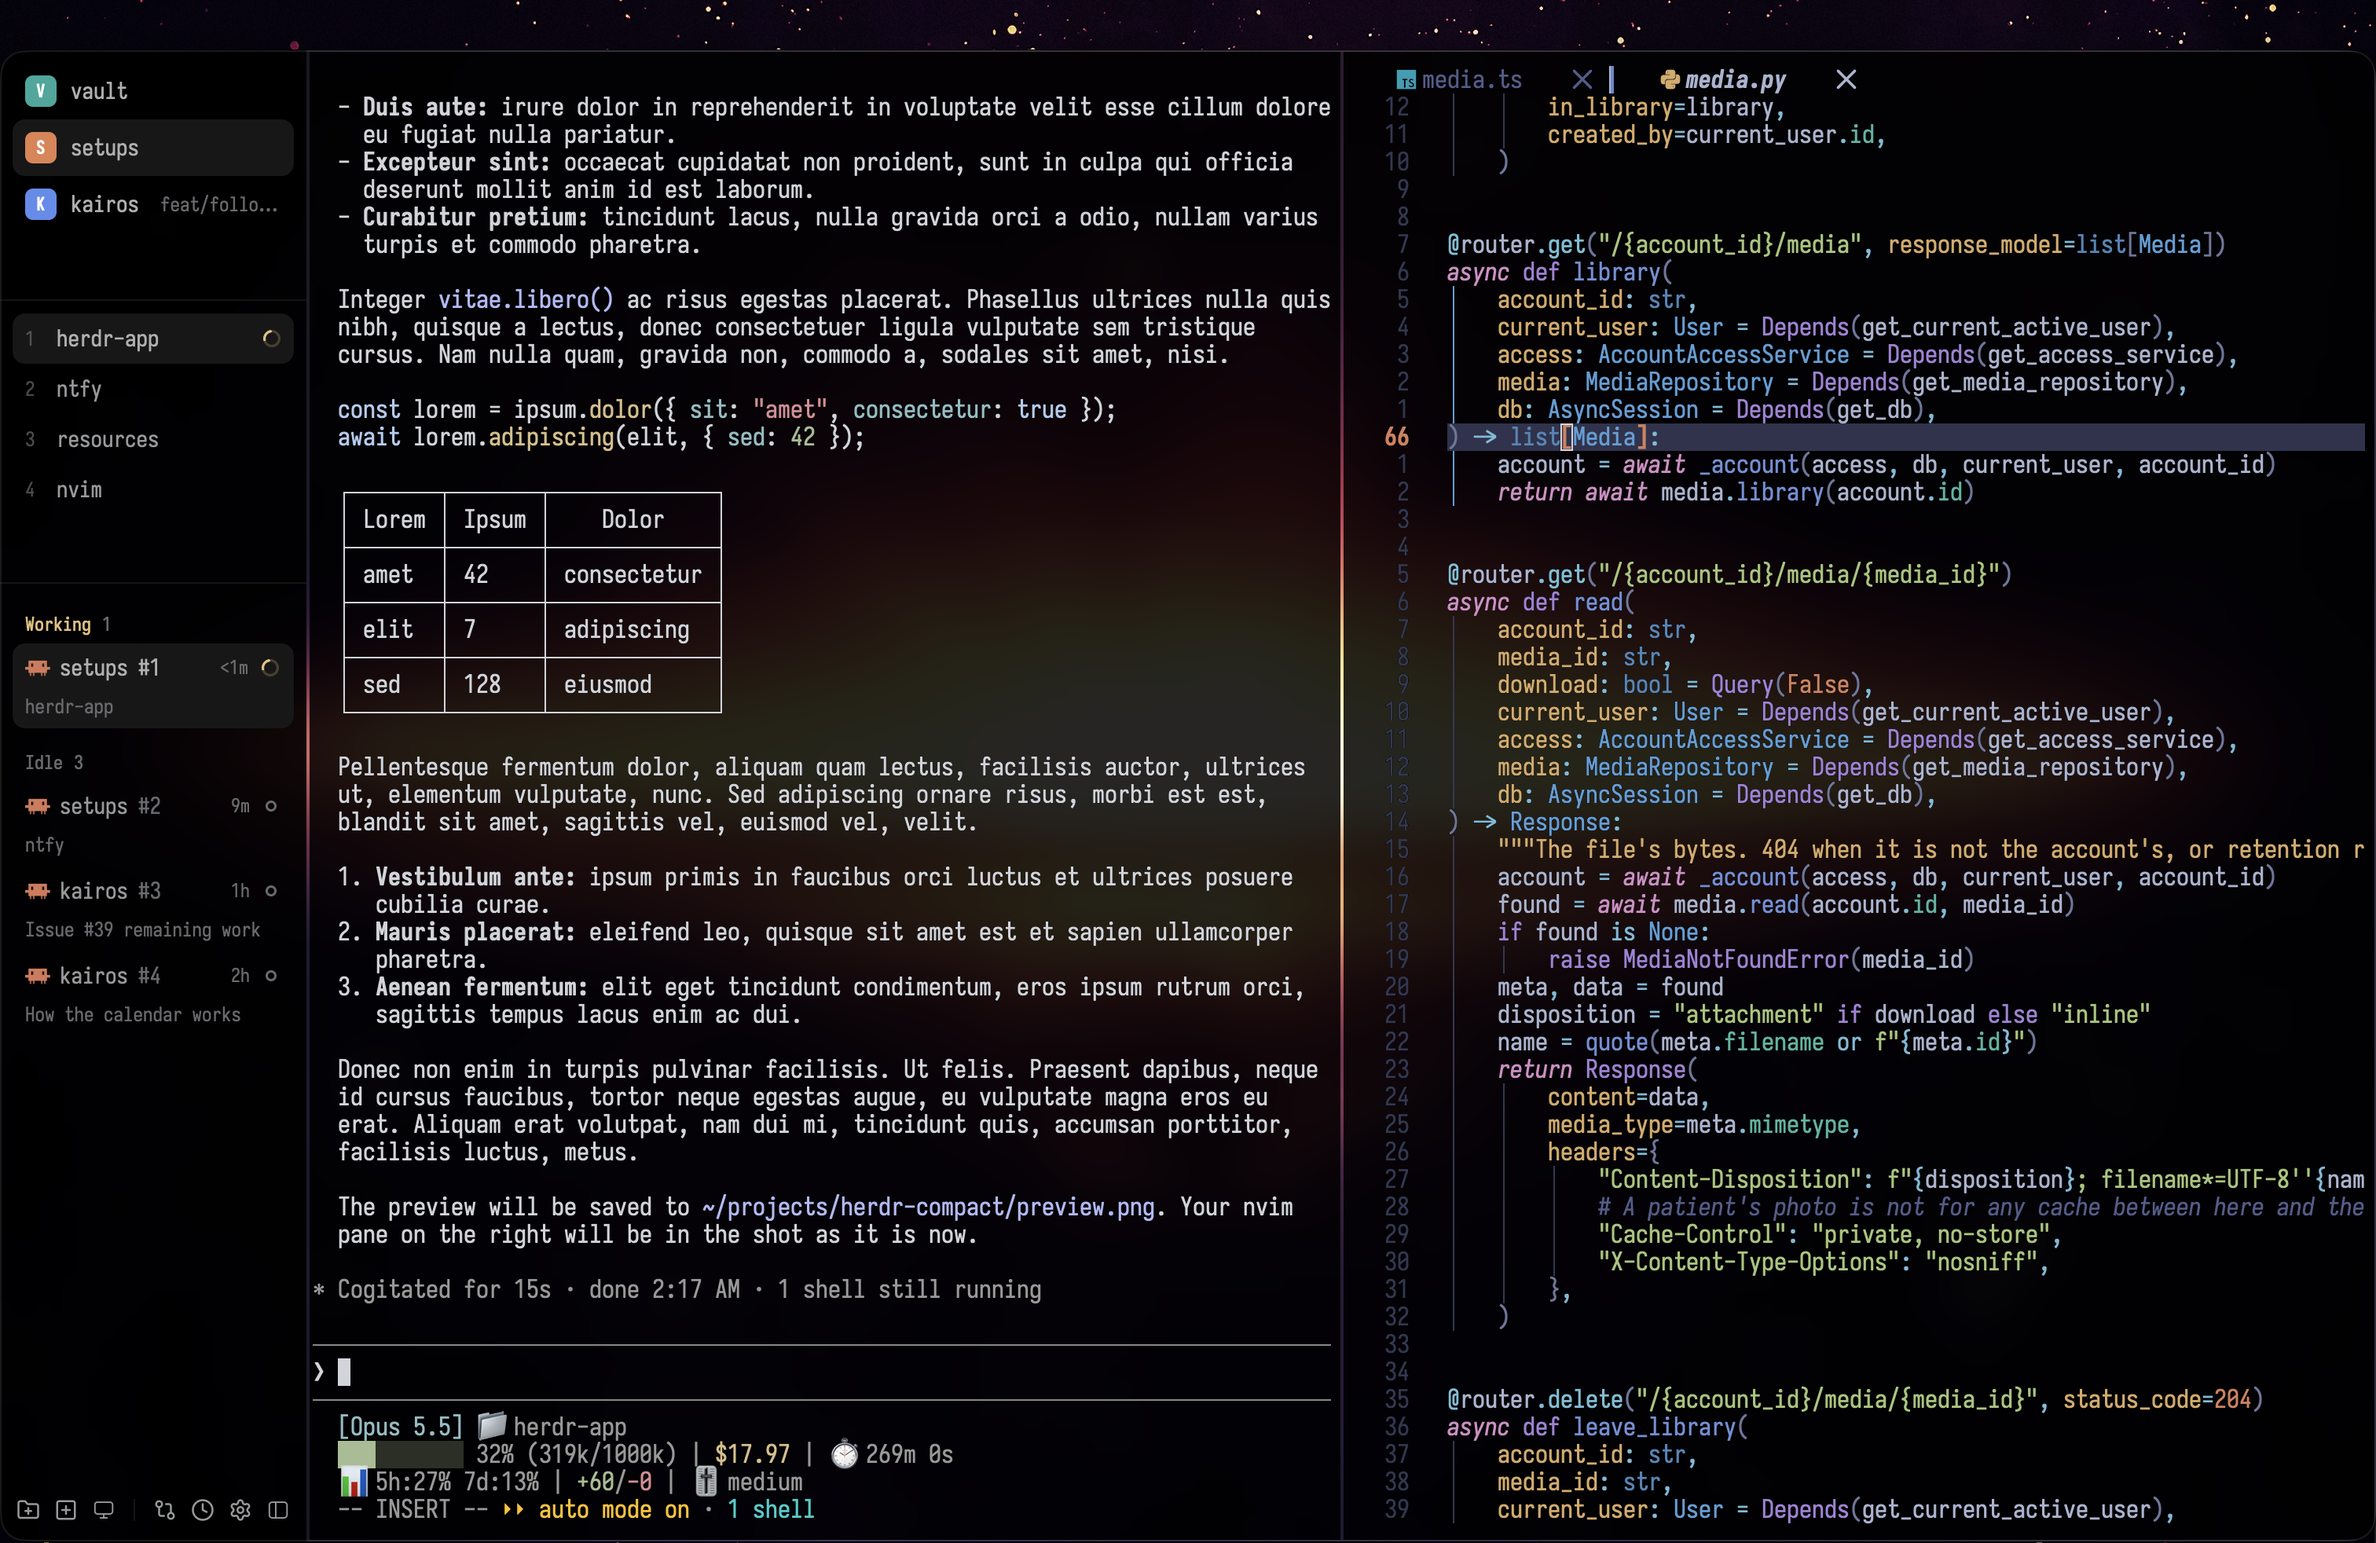
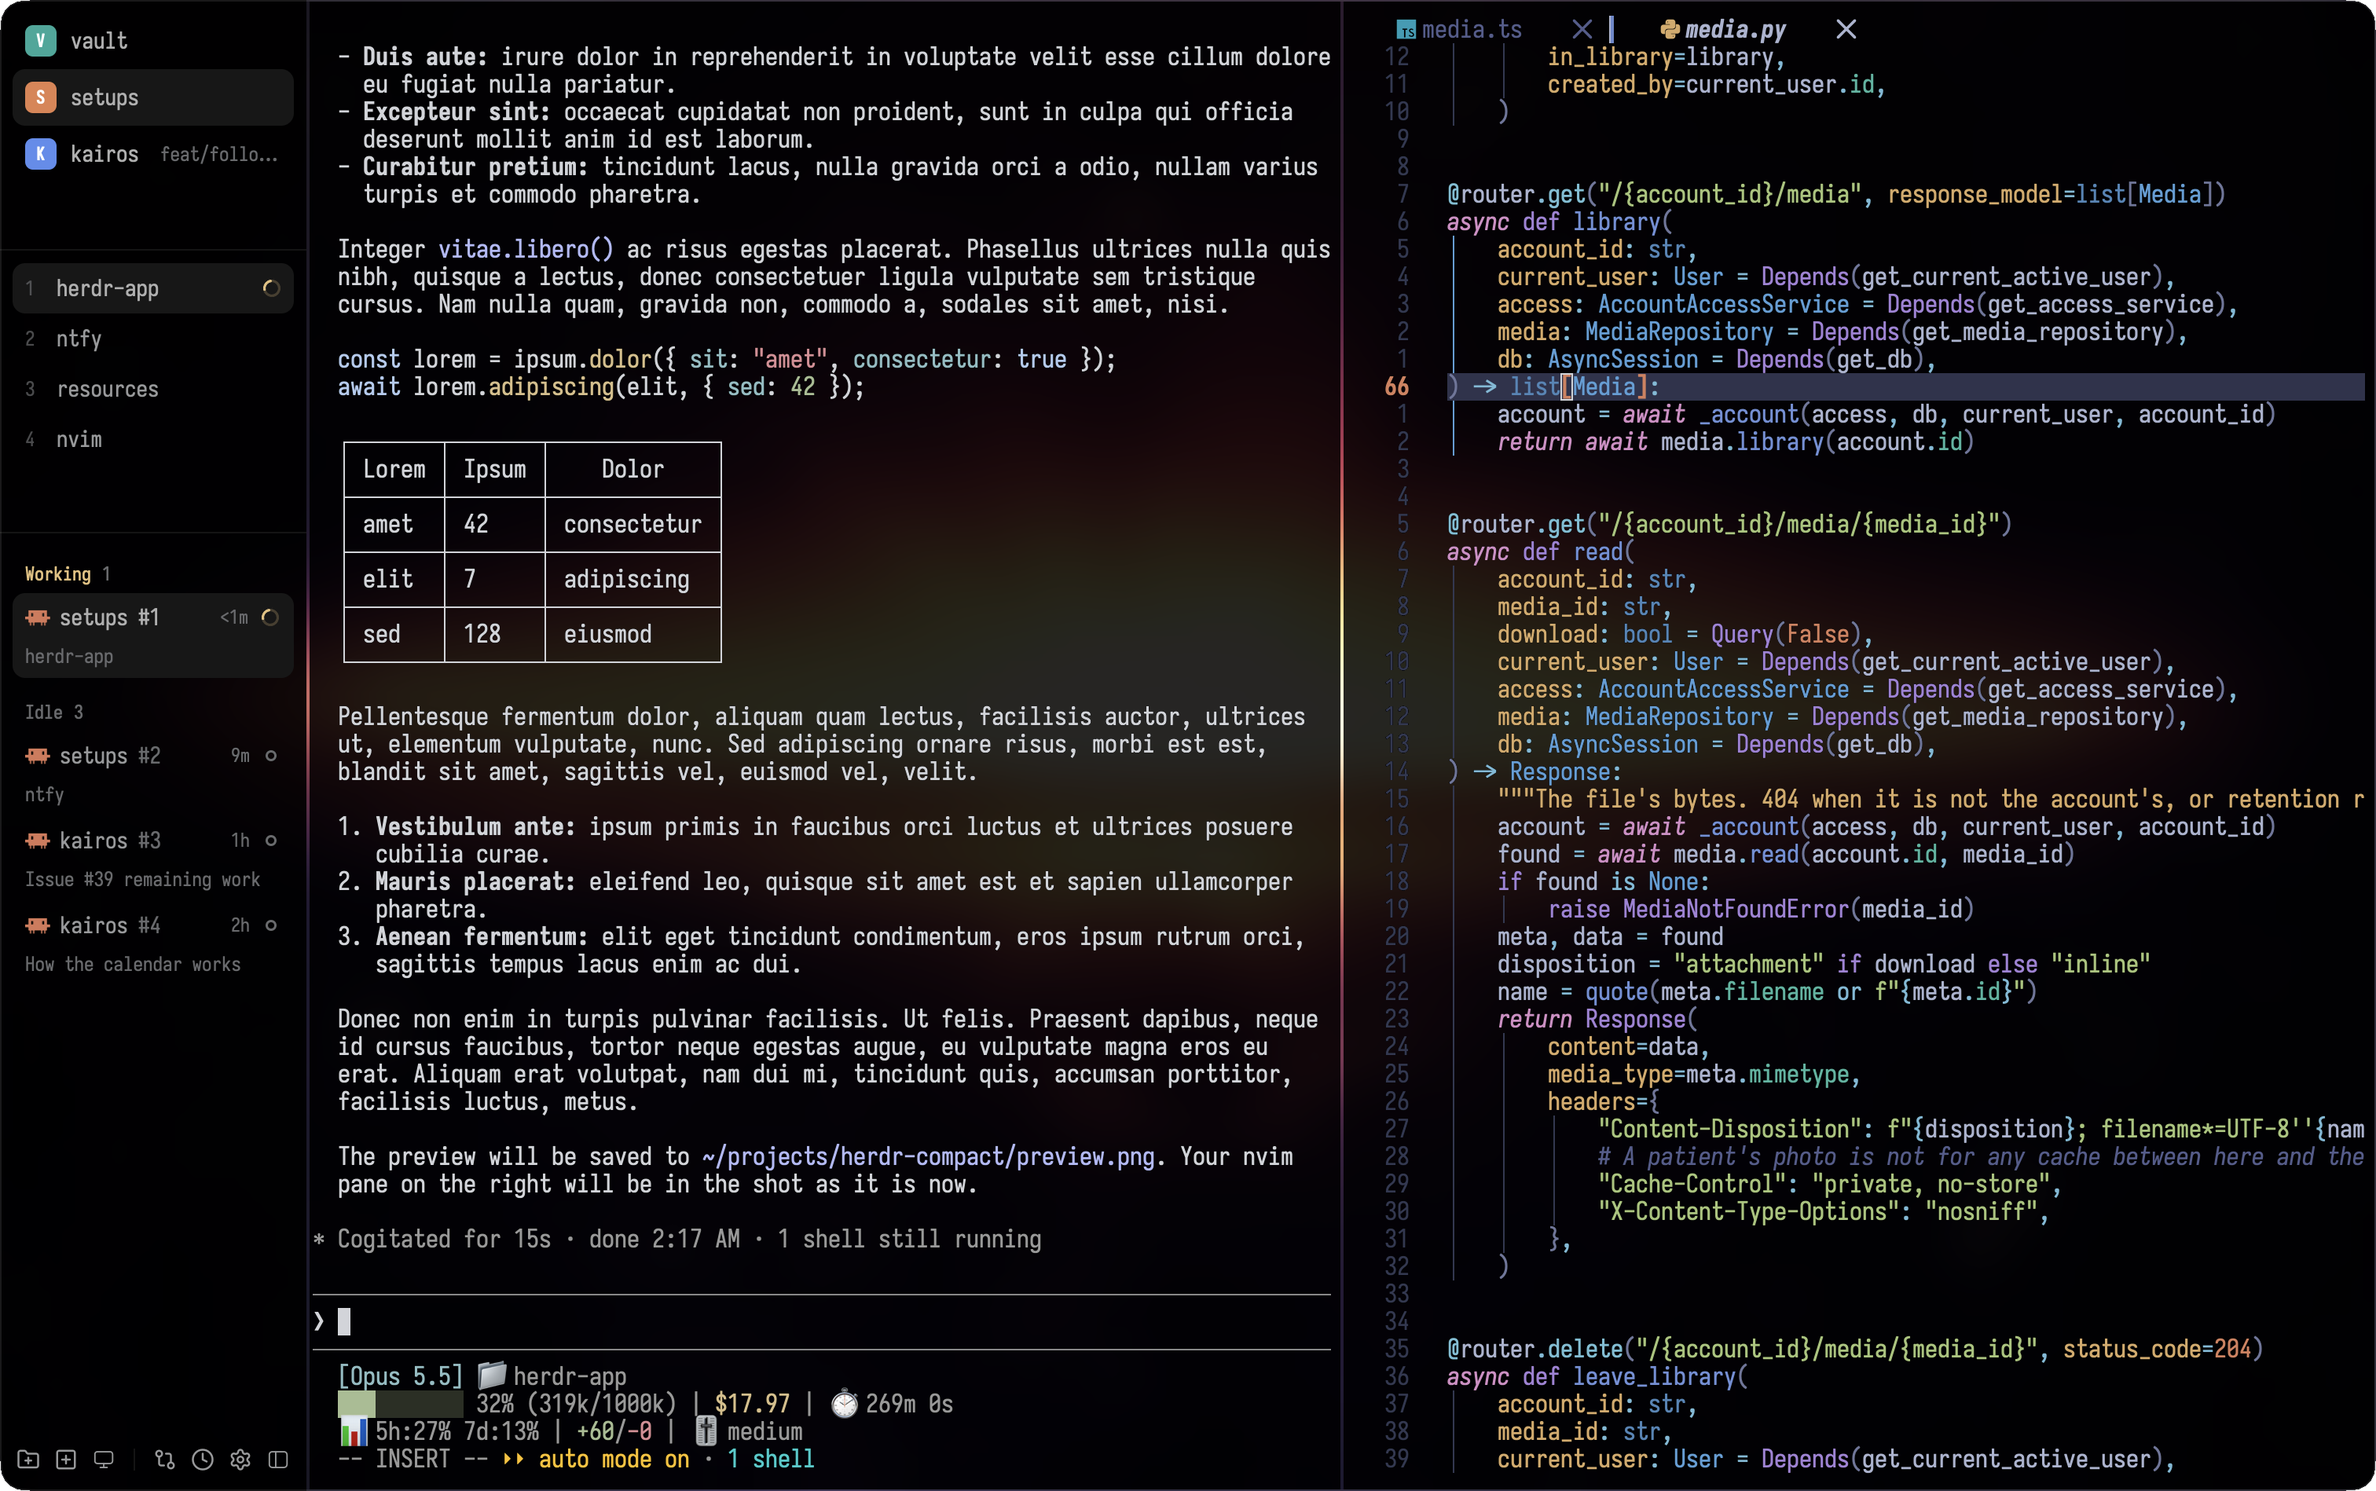
Add all-black preview and round both previews to the window shape

diff --git a/README.md b/README.md
@@ -2,7 +2,9 @@
 
 A compact, see-through layout for [Herdr](https://herdr.dev). No title bar, no tab bar and no pane headers: one slim sidebar holds your spaces, the current space's tabs and your agents, with a single row of icons at the bottom. Everything else is terminal, and the desktop shows through softly blurred.
 
-![Compact](preview.png)
+![Compact, see-through](preview.png)
+
+![Compact, all black](preview-black.png)
 
 ## What's in it
 
